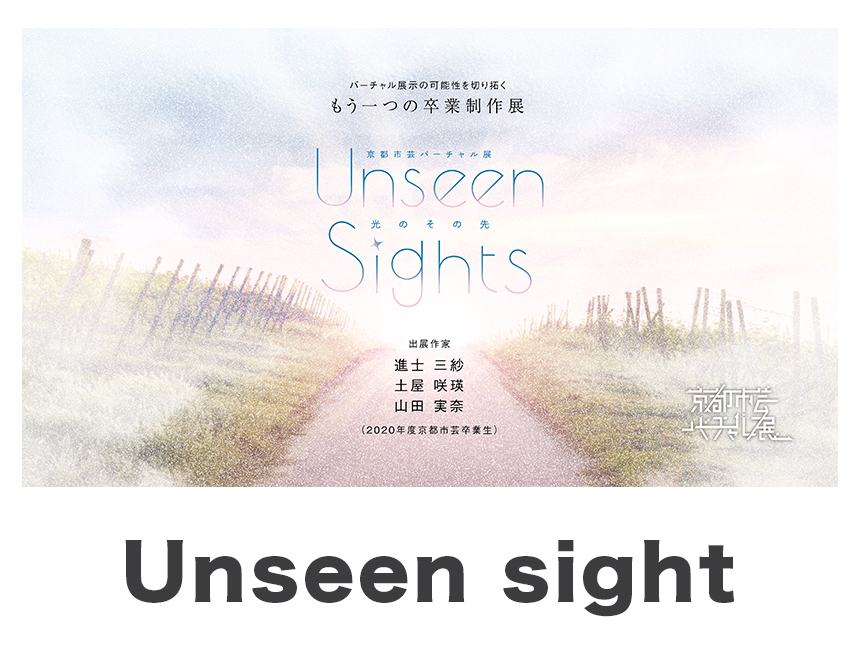
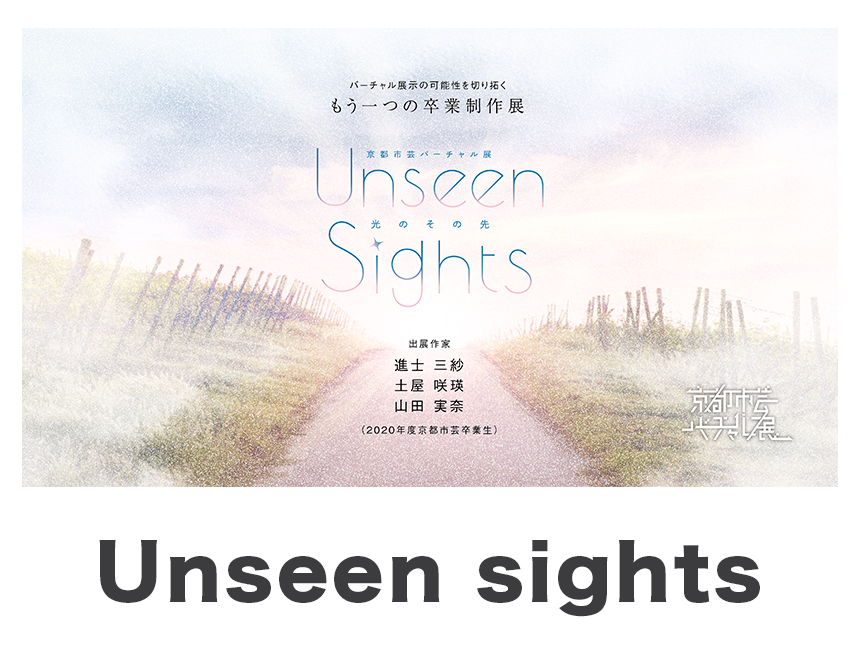
誤字脱字修正

Changed region(s): [[0.0907, 0.8372, 0.907, 0.9612]]

diff --git a/templates/sections/event-section.html b/templates/sections/event-section.html
@@ -7,7 +7,7 @@
                 <div class="contents-block">
                     <h2>ギャラリートーク</h2>
                     <h4>2月28日(日)</h4>
-                    <h4>11:00〜15:00</h4>
+                    <h4>11:00〜14:30</h4>
                     <p>『Kou展』『Unseen Sights』『#共創展』<br>京都市芸バーチャル展で開催されている展覧会を、作家の解説を聞きながらみんなで鑑賞しましょう！<br>質問や感想を作家に直接届ける貴重な機会です。<br>詳しくは以下からclusterイベントページをご覧ください！</p>
                     <div class="event-bottun">
                         <a href="" target="_blank">詳細はこちら  ></a>
